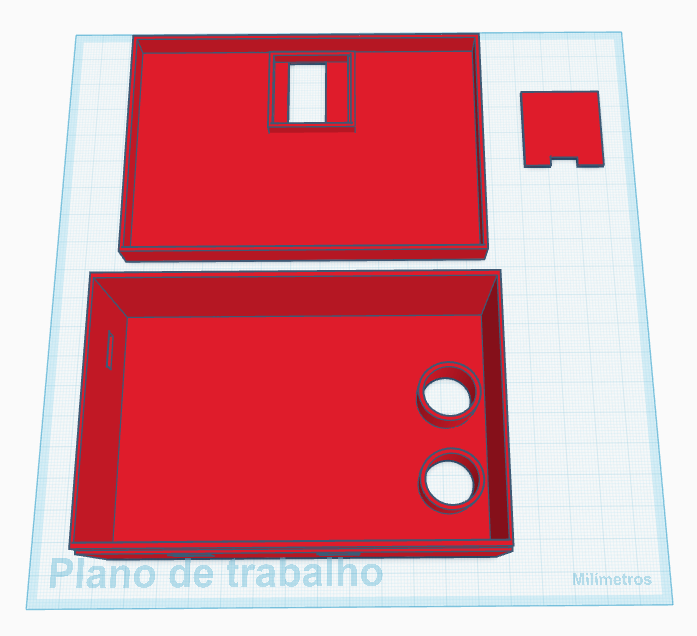
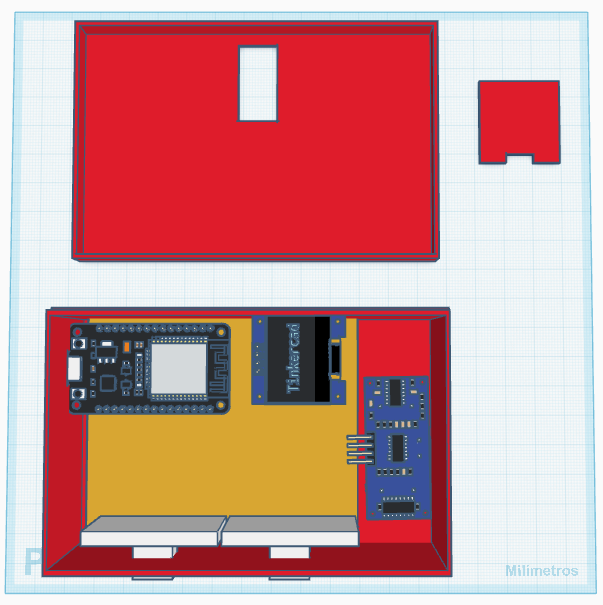
fix: fotos 3D

diff --git a/README.md b/README.md
@@ -60,6 +60,10 @@ O **SmartCollect IoT** busca tornar os Pontos de Entrega Voluntária mais **efic
   <img src="circuit/case/SmartCollect 2.0.png" alt="Case 3D do SmartCollect" width="1000">
 </div>
 
+<div align="center">
+  <img src="circuit/case/SmartCollect 2.0 - Vazio.png" alt="Case 3D do SmartCollect Vazio" width="1000">
+</div>
+
 ---
 
 ## 📐 Esquemático dos Componentes
